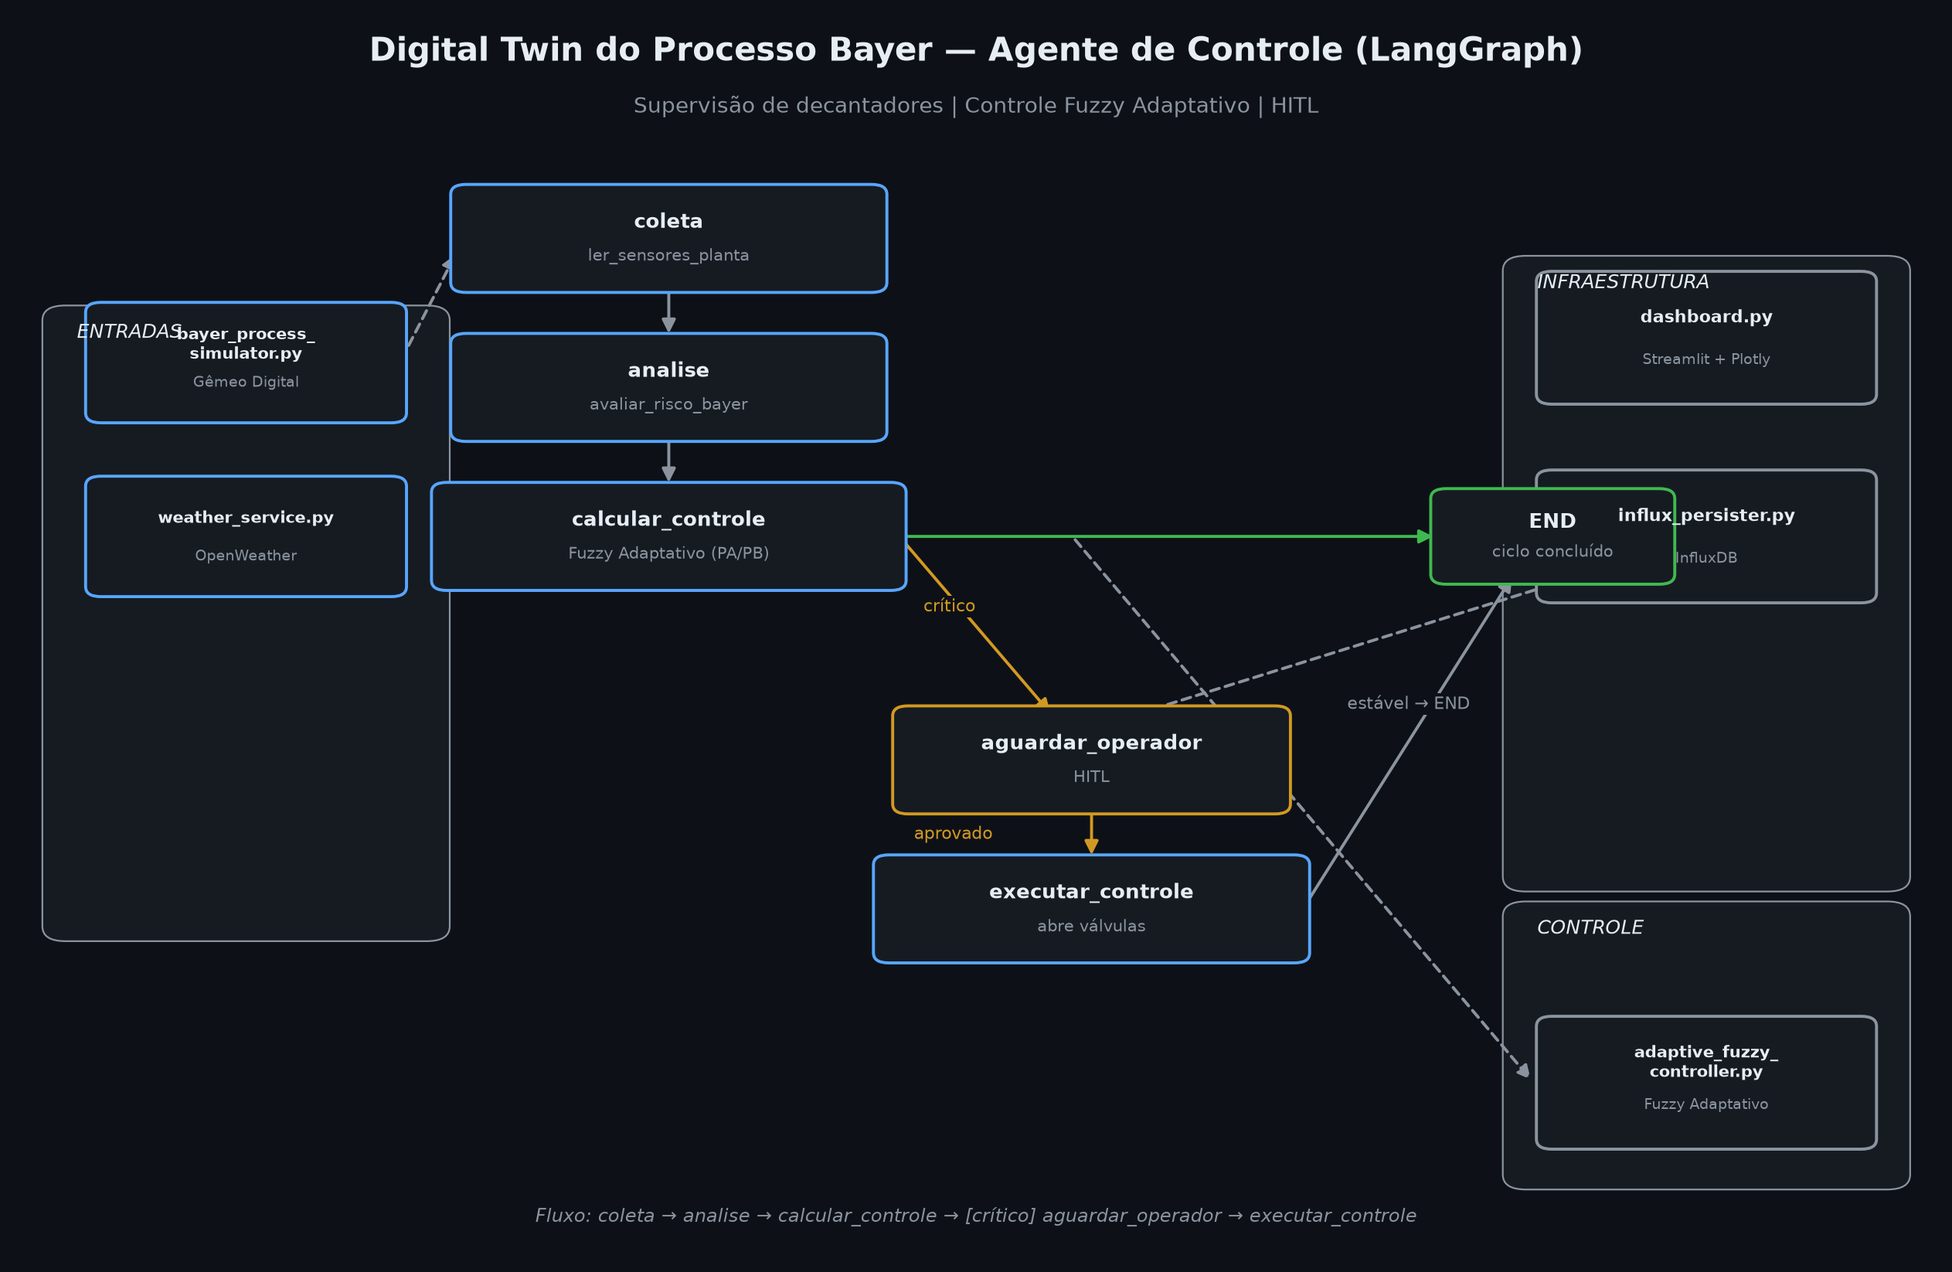
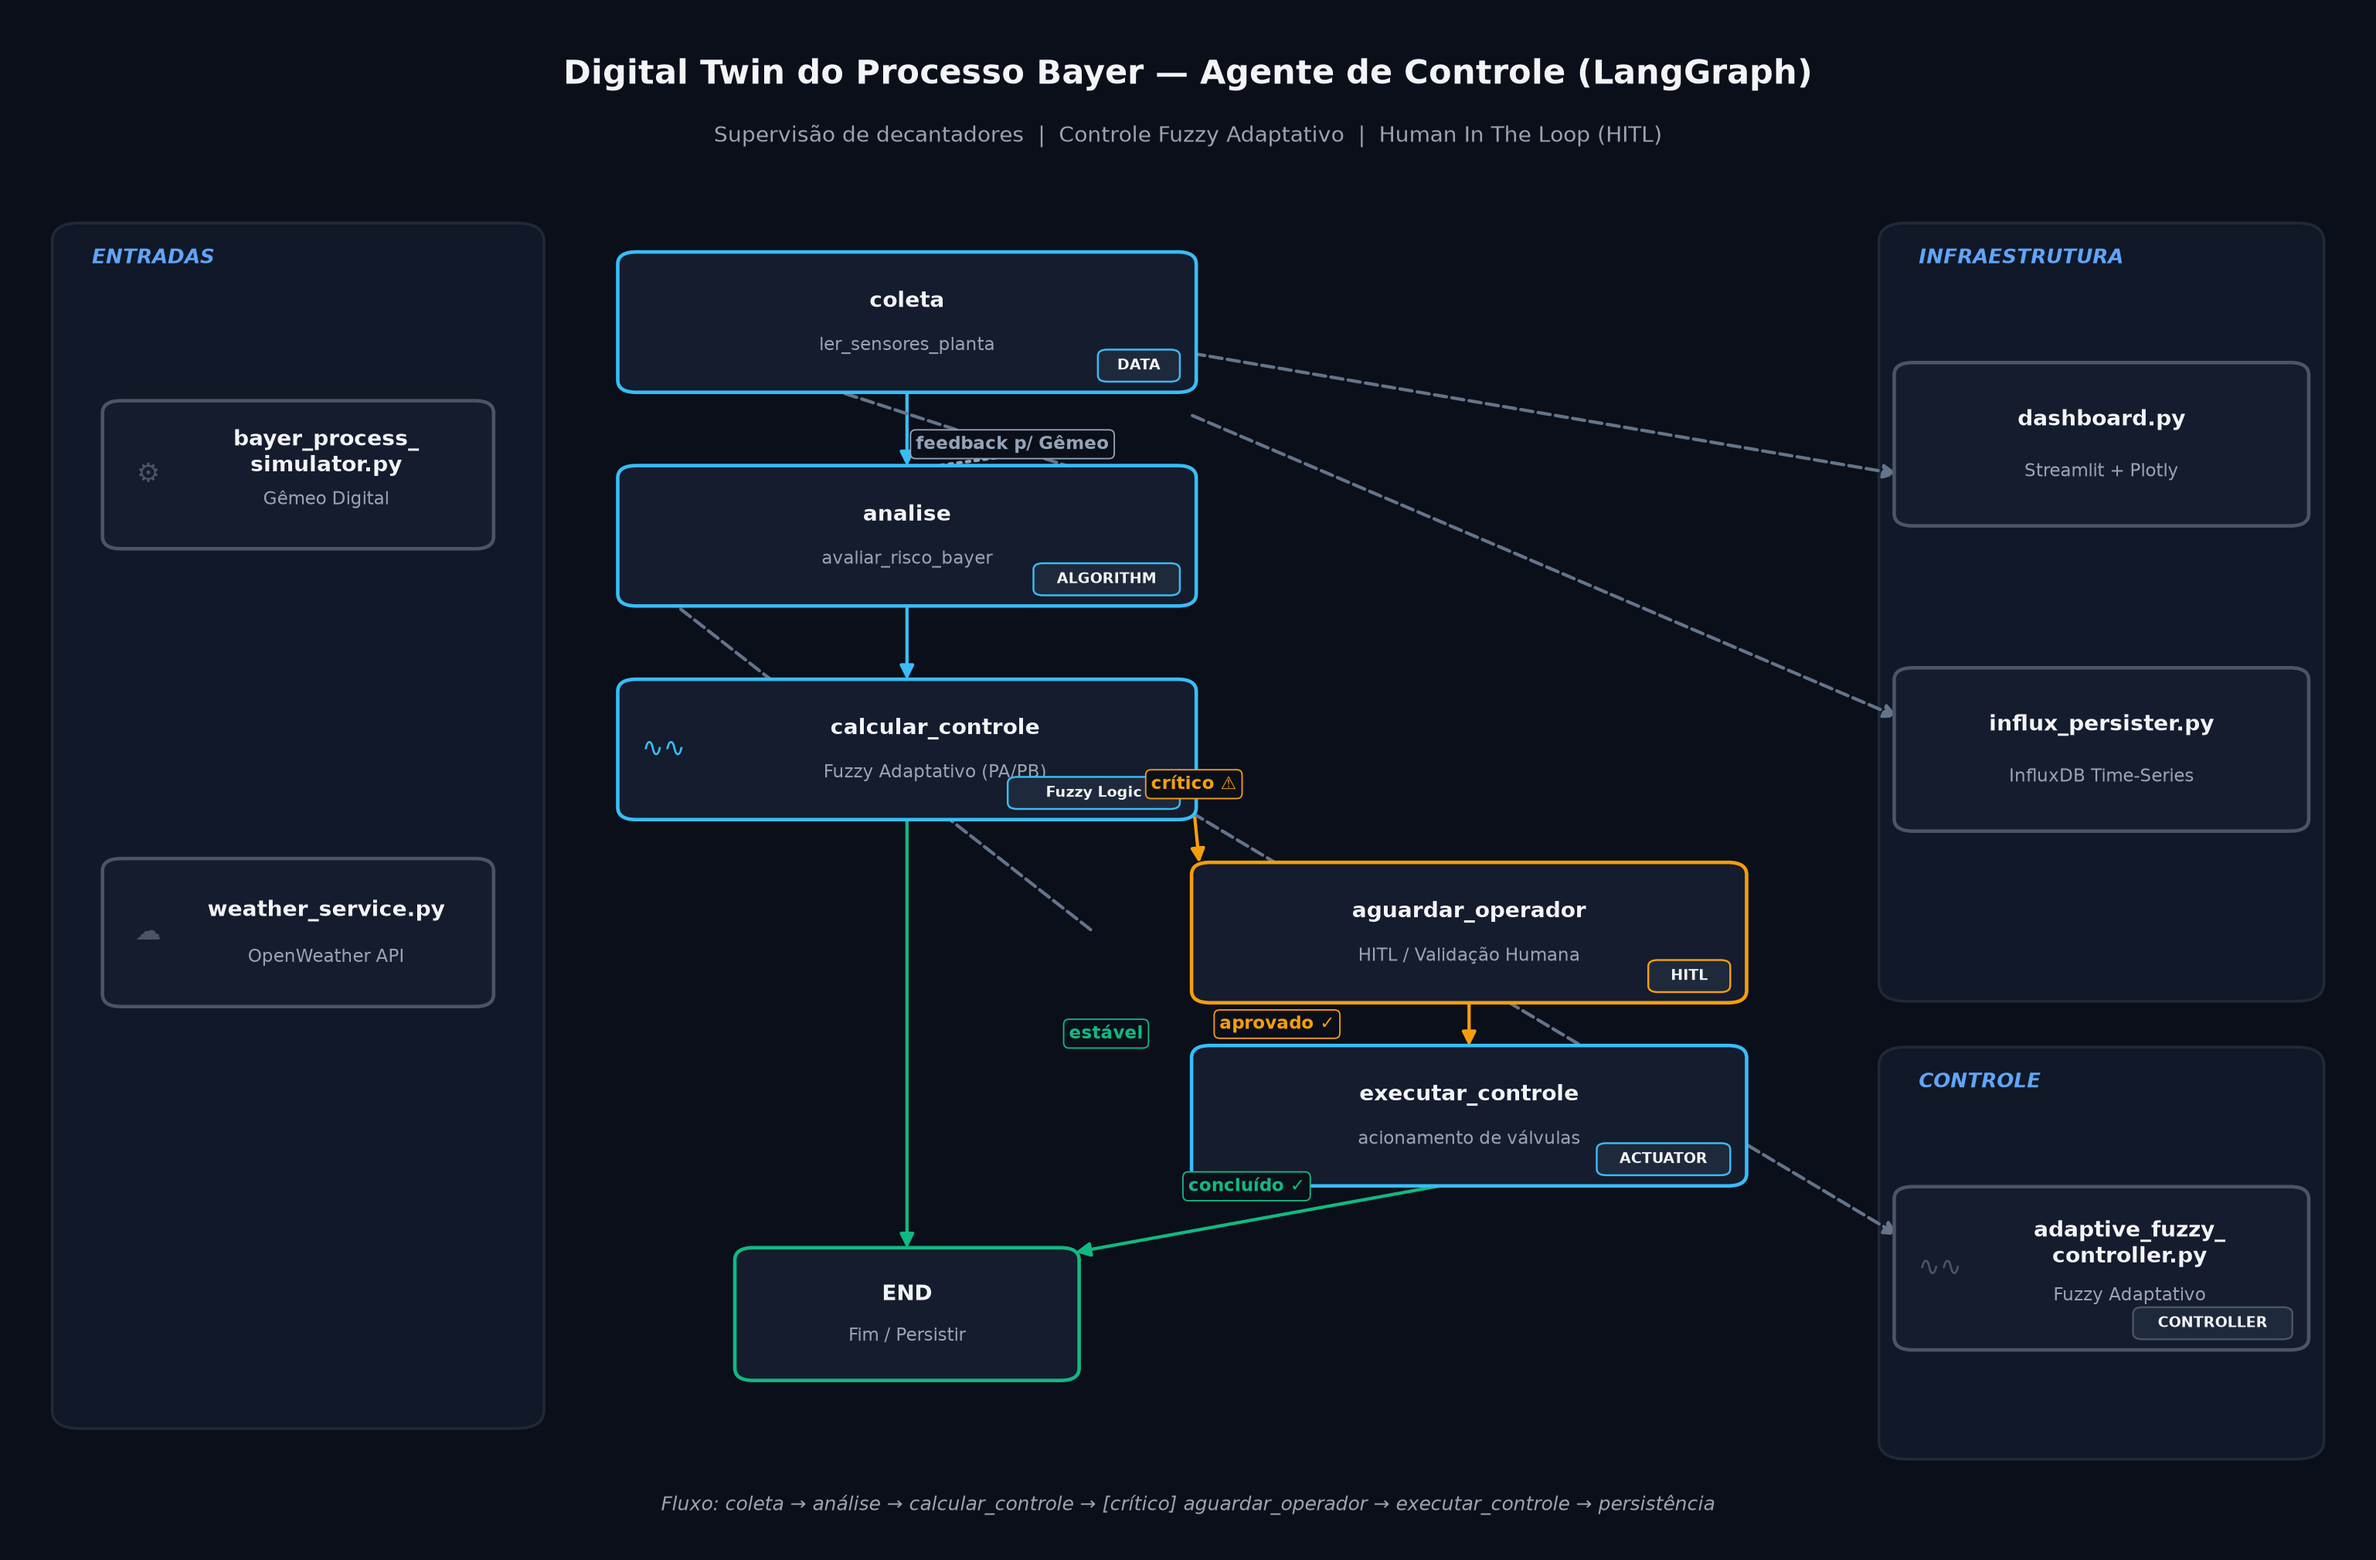
refactor: diagrama de arquitetura v2 (glifos DejaVu, layout sem overlap, HITL, sem nodo ficticio)
- Substitui emojis que renderizavam vazios na fonte matplotlib por glifos DejaVu
- Reposiciona no END para eliminar sobreposicao com o painel INFRAESTRUTURA/influx
- Corrige badge MITL->HITL e semantica das setas (estavel vs concluido)
- Remove nodo ficticio plant_sensor_config.csv
- Unifica geradores (remove _02/_03); regenera PNG canonic

diff --git a/scripts/diagrama_arquitetura.py b/scripts/diagrama_arquitetura.py
@@ -1,53 +1,146 @@
-"""Gera o diagrama de arquitetura do Digital Twin Processo Bayer (PNG dark-mode)."""
+#!/usr/bin/env python3
+"""
+Gera o diagrama de arquitetura do Digital Twin Processo Bayer (PNG dark-mode).
+
+Correções aplicadas (v2):
+- Glifos restritos aos suportados pela fonte DejaVu Sans (sem emojis *color* que
+  renderizavam como "tofu" na fonte matplotlib padrão).
+- Nó END reposicionado para evitar sobreposição com o painel INFRAESTRUTURA/influx.
+- Typo corrigido: badge "MITL" -> "HITL".
+- Semântica das setas corrigida (estável = caminho nao-crítico; concluído = pós-ação).
+- Removido nó ficticio "plant_sensor_config.csv" (não existe no projeto).
+"""
 import os
+import argparse
 import matplotlib
+
 matplotlib.use("Agg")
 import matplotlib.pyplot as plt
 from matplotlib.patches import FancyBboxPatch, FancyArrowPatch
+from matplotlib.axes import Axes
 
-BG = "#0d1117"
-PANEL = "#161b22"
-TEXT = "#e6edf3"
-FLOW = "#58a6ff"      # nos do grafo LangGraph
-AMBER = "#d29922"     # HITL
-GREEN = "#3fb950"     # END
-GRAY = "#8b949e"      # modulos externos
-ARROW = "#8b949e"
+# =============================================================================
+# PALETA DE CORES
+# =============================================================================
+BG = "#0B0F19"
+PANEL_BG = "#111827"
+PANEL_BORDER = "#1F2937"
+BOX_BG = "#141C2E"
+TEXT_MAIN = "#F3F4F6"
+TEXT_MUTED = "#9CA3AF"
+BLUE_FLOW = "#38BDF8"       # nos do LangGraph
+AMBER_WARN = "#F59E0B"      # decisao critica / HITL
+GREEN_SUCCESS = "#10B981"   # termino / persistencia
+GRAY_EXT = "#4B5563"        # modulos externos
+BADGE_BG = "#1E293B"
+ARROW_MUTED = "#64748B"
 
-FIG_W, FIG_H, DPI = 12.6, 8.2, 200
+FIG_W, FIG_H, DPI = 14.0, 9.2, 220
 
 
-def panel(ax, x0, y0, w, h, title):
-    ax.add_patch(FancyBboxPatch((x0, y0), w, h, boxstyle="round,pad=0.6,rounding_size=1.2",
-                                fc=PANEL, ec=GRAY, lw=0.8, zorder=0))
-    ax.text(x0 + 1.2, y0 + h - 1.6, title, color=TEXT, fontsize=9, ha="left",
-            va="center", style="italic")
+# =============================================================================
+# FUNCOES AUXILIARES DE DESENHO
+# =============================================================================
+def draw_panel(ax: Axes, x0: float, y0: float, w: float, h: float, title: str) -> None:
+    """Desenha um container de modulo com cantos arredondados e cabecalho."""
+    ax.add_patch(
+        FancyBboxPatch(
+            (x0, y0), w, h,
+            boxstyle="round,pad=0.5,rounding_size=1.2",
+            fc=PANEL_BG, ec=PANEL_BORDER, lw=1.2, zorder=0
+        )
+    )
+    ax.text(
+        x0 + 1.2, y0 + h - 1.8, title,
+        color="#60A5FA", fontsize=8.5, ha="left", va="center",
+        fontweight="bold", style="italic", zorder=1
+    )
 
 
-def box(ax, cx, cy, w, h, name, sub, fc, ec, fs=9.5, sfs=7.5):
-    ax.add_patch(FancyBboxPatch((cx - w / 2, cy - h / 2), w, h,
-                                boxstyle="round,pad=0.35,rounding_size=0.8",
-                                fc=fc, ec=ec, lw=1.4, zorder=2))
-    ax.text(cx, cy + h * 0.16 if sub else cy, name, color=TEXT, fontsize=fs,
-            ha="center", va="center", fontweight="bold", zorder=3)
+def draw_node(
+    ax: Axes, cx: float, cy: float, w: float, h: float,
+    name: str, sub: str, border_color: str,
+    icon: str = "", badge: str = "",
+    fs: float = 9.0, sfs: float = 7.5
+) -> tuple[float, float, float, float]:
+    """Desenha um no com icone (glifo DejaVu), titulo, subtitulo e badge."""
+    ax.add_patch(
+        FancyBboxPatch(
+            (cx - w / 2, cy - h / 2), w, h,
+            boxstyle="round,pad=0.35,rounding_size=0.8",
+            fc=BOX_BG, ec=border_color, lw=1.5, zorder=2
+        )
+    )
+
+    if icon:
+        ax.text(
+            cx - w / 2 + 1.6, cy, icon,
+            color=border_color, fontsize=fs * 1.25, ha="center", va="center", zorder=4
+        )
+
+    tx_offset = 1.2 if icon else 0.0
+    y_name = cy + (h * 0.16 if sub else 0)
+    ax.text(
+        cx + tx_offset, y_name, name,
+        color=TEXT_MAIN, fontsize=fs, ha="center", va="center",
+        fontweight="bold", zorder=3
+    )
+
     if sub:
-        ax.text(cx, cy - h * 0.18, sub, color=GRAY, fontsize=sfs, ha="center",
-                va="center", zorder=3)
+        ax.text(
+            cx + tx_offset, cy - h * 0.18, sub,
+            color=TEXT_MUTED, fontsize=sfs, ha="center", va="center", zorder=3
+        )
+
+    if badge:
+        bw, bh = len(badge) * 0.55 + 1.0, 1.8
+        bx, by = cx + w / 2 - bw / 2 - 0.5, cy - h / 2 + bh / 2 + 0.5
+        ax.add_patch(
+            FancyBboxPatch(
+                (bx - bw / 2, by - bh / 2), bw, bh,
+                boxstyle="round,pad=0.15,rounding_size=0.4",
+                fc=BADGE_BG, ec=border_color, lw=0.8, zorder=4
+            )
+        )
+        ax.text(
+            bx, by, badge,
+            color=TEXT_MAIN, fontsize=6.2, ha="center", va="center",
+            fontweight="bold", zorder=5
+        )
+
     return (cx, cy, w, h)
 
 
-def arrow(ax, p0, p1, label=None, color=ARROW, style="-|>", lw=1.4, ls="-",
-          lx=0.0, ly=0.0, fs=8):
-    ax.add_patch(FancyArrowPatch(p0, p1, arrowstyle=style, mutation_scale=13,
-                                 color=color, lw=lw, linestyle=ls, zorder=1))
+def draw_arrow(
+    ax: Axes, p0: tuple[float, float], p1: tuple[float, float],
+    label: str | None = None, color: str = ARROW_MUTED, style: str = "-|>",
+    lw: float = 1.4, ls: str = "-", lx: float = 0.0, ly: float = 0.0,
+    fs: float = 7.5
+) -> None:
+    """Desenha conexoes direcionais com rotulo opcional."""
+    ax.add_patch(
+        FancyArrowPatch(
+            p0, p1, arrowstyle=style, mutation_scale=12,
+            color=color, lw=lw, linestyle=ls, zorder=1
+        )
+    )
     if label:
-        ax.text((p0[0] + p1[0]) / 2 + lx, (p0[1] + p1[1]) / 2 + ly, label,
-                color=color, fontsize=fs, ha="center", va="center",
-                bbox=dict(fc=BG, ec="none", pad=0.8), zorder=3)
+        ax.text(
+            (p0[0] + p1[0]) / 2 + lx,
+            (p0[1] + p1[1]) / 2 + ly,
+            label, color=color, fontsize=fs,
+            ha="center", va="center", fontweight="bold",
+            bbox=dict(boxstyle="round,pad=0.3", fc=BG, ec=color, lw=0.6),
+            zorder=6
+        )
 
 
-def main():
-    os.makedirs("assets", exist_ok=True)
+# =============================================================================
+# RENDERIZACAO DO GRAFO
+# =============================================================================
+def main(output_path: str = "assets/arquitetura_processo_bayer.png") -> None:
+    os.makedirs(os.path.dirname(output_path) or ".", exist_ok=True)
+
     fig, ax = plt.subplots(figsize=(FIG_W, FIG_H), dpi=DPI)
     fig.patch.set_facecolor(BG)
     ax.set_facecolor(BG)
@@ -55,60 +148,108 @@ def main():
     ax.set_ylim(0, 100)
     ax.axis("off")
 
-    ax.text(50, 97, "Digital Twin do Processo Bayer — Agente de Controle (LangGraph)",
-            color=TEXT, fontsize=15, ha="center", va="center", fontweight="bold")
-    ax.text(50, 92.6, "Supervisão de decantadores | Controle Fuzzy Adaptativo | HITL",
-            color=GRAY, fontsize=10, ha="center", va="center")
+    # ----- Titulo -----
+    ax.text(50, 96.2,
+            "Digital Twin do Processo Bayer — Agente de Controle (LangGraph)",
+            color=TEXT_MAIN, fontsize=14, ha="center", va="center", fontweight="bold")
+    ax.text(50, 92.2,
+            "Supervisão de decantadores  |  Controle Fuzzy Adaptativo  |  Human In The Loop (HITL)",
+            color=TEXT_MUTED, fontsize=9.2, ha="center", va="center")
 
-    # ----- paineis externos -----
-    panel(ax, 2, 26, 20, 50, "ENTRADAS")
-    panel(ax, 78, 30, 20, 50, "INFRAESTRUTURA")
-    panel(ax, 78, 6, 20, 22, "CONTROLE")
+    # ----- Paineis -----
+    draw_panel(ax, 2, 8, 20, 78, "ENTRADAS")
+    draw_panel(ax, 80, 36, 18, 50, "INFRAESTRUTURA")
+    draw_panel(ax, 80, 6, 18, 26, "CONTROLE")
 
-    box(ax, 12, 72, 16, 9, "bayer_process_\nsimulator.py", "Gêmeo Digital", PANEL, FLOW,
-        fs=7.5, sfs=7)
-    box(ax, 12, 58, 16, 9, "weather_service.py", "OpenWeather", PANEL, FLOW,
-        fs=7.5, sfs=7)
+    pos = {}
 
-    box(ax, 88, 74, 17, 10, "dashboard.py", "Streamlit + Plotly", PANEL, GRAY,
-        fs=8, sfs=7)
-    box(ax, 88, 58, 17, 10, "influx_persister.py", "InfluxDB", PANEL, GRAY,
-        fs=8, sfs=7)
-    box(ax, 88, 14, 17, 10, "adaptive_fuzzy_\ncontroller.py", "Fuzzy Adaptativo", PANEL, GRAY,
-        fs=7.5, sfs=7)
+    # ----- ENTRADAS (2 nos reais) -----
+    pos["simulator"] = draw_node(
+        ax, 12, 70, 16, 9, "bayer_process_\nsimulator.py", "Gêmeo Digital",
+        border_color=GRAY_EXT, icon="⚙")
+    pos["weather"] = draw_node(
+        ax, 12, 40, 16, 9, "weather_service.py", "OpenWeather API",
+        border_color=GRAY_EXT, icon="☁")
 
-    # ----- fluxo LangGraph -----
-    flow = PANEL
-    box(ax, 34, 82, 22, 8, "coleta", "ler_sensores_planta", flow, FLOW)
-    box(ax, 34, 70, 22, 8, "analise", "avaliar_risco_bayer", flow, FLOW)
-    box(ax, 34, 58, 24, 8, "calcular_controle", "Fuzzy Adaptativo (PA/PB)", flow, FLOW)
-    box(ax, 56, 40, 20, 8, "aguardar_operador", "HITL", flow, AMBER)
-    box(ax, 56, 28, 22, 8, "executar_controle", "abre válvulas", flow, FLOW)
-    box(ax, 80, 58, 12, 7, "END", "ciclo concluído", flow, GREEN)
+    # ----- INFRAESTRUTURA & CONTROLE -----
+    pos["dashboard"] = draw_node(
+        ax, 89, 72, 17, 10, "dashboard.py", "Streamlit + Plotly",
+        border_color=GRAY_EXT)
+    pos["influx"] = draw_node(
+        ax, 89, 52, 17, 10, "influx_persister.py", "InfluxDB Time-Series",
+        border_color=GRAY_EXT)
+    pos["fuzzy_ctrl"] = draw_node(
+        ax, 89, 18, 17, 10, "adaptive_fuzzy_\ncontroller.py", "Fuzzy Adaptativo",
+        border_color=GRAY_EXT, icon="∿∿", badge="CONTROLLER")
 
-    # ----- setas do fluxo -----
-    arrow(ax, (34, 78), (34, 74))
-    arrow(ax, (34, 66), (34, 62))
-    arrow(ax, (46, 58), (54, 43.5), label="crítico", color=AMBER, lx=-1.4, ly=1.6)
-    arrow(ax, (56, 36), (56, 32), label="aprovado", color=AMBER, lx=-7.2, ly=0)
-    arrow(ax, (67, 28), (78, 55), label="estável → END", color=GRAY, lx=0, ly=3)
-    arrow(ax, (46, 58), (74, 58), color=GREEN, lx=0, ly=0)
+    # ----- Fluxo principal LangGraph -----
+    pos["coleta"] = draw_node(
+        ax, 38, 80, 24, 8.5, "coleta", "ler_sensores_planta",
+        border_color=BLUE_FLOW, badge="DATA")
+    pos["analise"] = draw_node(
+        ax, 38, 66, 24, 8.5, "analise", "avaliar_risco_bayer",
+        border_color=BLUE_FLOW, badge="ALGORITHM")
+    pos["calcular"] = draw_node(
+        ax, 38, 52, 24, 8.5, "calcular_controle", "Fuzzy Adaptativo (PA/PB)",
+        border_color=BLUE_FLOW, icon="∿∿", badge="Fuzzy Logic")
+    pos["aguardar"] = draw_node(
+        ax, 62, 40, 23, 8.5, "aguardar_operador", "HITL / Validação Humana",
+        border_color=AMBER_WARN, badge="HITL")
+    pos["executar"] = draw_node(
+        ax, 62, 28, 23, 8.5, "executar_controle", "acionamento de válvulas",
+        border_color=BLUE_FLOW, badge="ACTUATOR")
+    pos["END"] = draw_node(
+        ax, 38, 15, 14, 8, "END", "Fim / Persistir",
+        border_color=GREEN_SUCCESS)
 
-    # ----- dependencias (tracejadas) -----
-    arrow(ax, (20, 72), (23, 81), ls=(0, (3, 2)), color=GRAY)
-    arrow(ax, (55, 58), (79, 14), ls=(0, (3, 2)), color=GRAY, style="-|>")
-    arrow(ax, (23, 78), (34, 80), ls=(0, (3, 2)), color=GRAY)
-    arrow(ax, (59, 44), (88, 58), ls=(0, (3, 2)), color=GRAY)
+    # =========================================================================
+    # CONEXOES DO FLUXO LANGGRAPH
+    # =========================================================================
+    # 1. Coleta -> Análise
+    draw_arrow(ax, (38, 75.75), (38, 70.25), color=BLUE_FLOW)
+    # 2. Análise -> Calcular
+    draw_arrow(ax, (38, 61.75), (38, 56.25), color=BLUE_FLOW)
+    # 3. Calcular -> Aguardar (crítico)
+    draw_arrow(ax, (50, 52), (50.5, 44.25), label="crítico ⚠", color=AMBER_WARN, lx=0, ly=1.6)
+    # 4. Aguardar -> Executar (aprovado)
+    draw_arrow(ax, (62, 35.75), (62, 32.25), label="aprovado ✓", color=AMBER_WARN, lx=-8.2, ly=0)
+    # 5. Executar -> END (concluído)
+    draw_arrow(ax, (62, 23.75), (45, 19), label="concluído ✓", color=GREEN_SUCCESS, lx=-1.0, ly=2.0)
+    # 6. Calcular -> END (estável / não-crítico)
+    draw_arrow(ax, (38, 47.75), (38, 19), label="estável", color=GREEN_SUCCESS, lx=8.5, ly=0)
 
-    ax.text(50, 3.2, "Fluxo: coleta → analise → calcular_controle → [crítico] aguardar_operador → executar_controle",
-            color=GRAY, fontsize=8.5, ha="center", va="center", style="italic")
+    # =========================================================================
+    # INTEGRACOES EXTERNAS (TRACEJADAS)
+    # =========================================================================
+    # Simulador -> Coleta
+    draw_arrow(ax, (46, 70), (26, 80), ls="--", color=ARROW_MUTED)
+    # Clima -> Análise
+    draw_arrow(ax, (46, 40), (26, 64), ls="--", color=ARROW_MUTED)
+    # Calcular -> Módulo Fuzzy (controle)
+    draw_arrow(ax, (50, 48), (80.5, 20), ls="--", color=ARROW_MUTED)
+    # Coleta -> Dashboard
+    draw_arrow(ax, (50, 78), (80.5, 70), ls="--", color=ARROW_MUTED)
+    # Coleta -> Influx (persistência)
+    draw_arrow(ax, (50, 74), (80.5, 54), ls="--", color=ARROW_MUTED)
+    # Feedback do fluxo para o Gêmeo
+    draw_arrow(ax, (27, 68), (46, 72), label="feedback p/ Gêmeo", ls=":",
+               color="#94A3B8", lx=6, ly=2)
 
-    fig.tight_layout(pad=0.6)
-    out = "assets/arquitetura_processo_bayer.png"
-    fig.savefig(out, facecolor=BG, bbox_inches="tight")
+    # ----- Rodape -----
+    ax.text(50, 2.5,
+            "Fluxo: coleta → análise → calcular_controle → [crítico] aguardar_operador → executar_controle → persistência",
+            color=TEXT_MUTED, fontsize=8.2, ha="center", va="center", style="italic")
+
+    fig.tight_layout(pad=0.8)
+    fig.savefig(output_path, facecolor=BG, bbox_inches="tight")
+    print(f"Diagrama salvo em: {output_path}")
     plt.close(fig)
-    print(f"OK: {out}")
 
 
 if __name__ == "__main__":
-    main()
+    parser = argparse.ArgumentParser(
+        description="Gera o diagrama de arquitetura do Digital Twin Processo Bayer.")
+    parser.add_argument("-o", "--output", default="assets/arquitetura_processo_bayer.png",
+                        help="Caminho do arquivo de saída")
+    args = parser.parse_args()
+    main(args.output)
